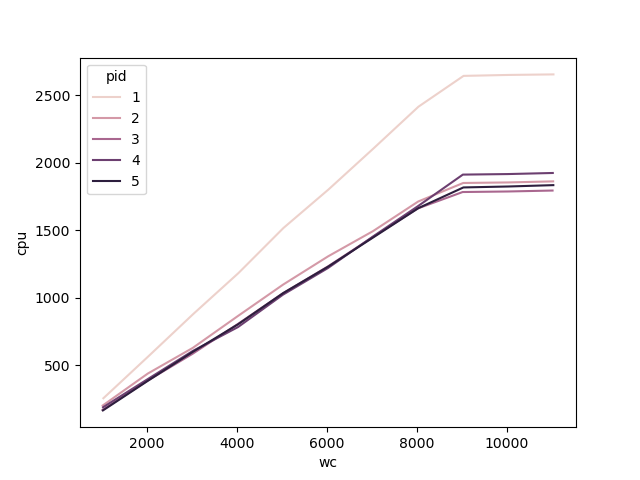
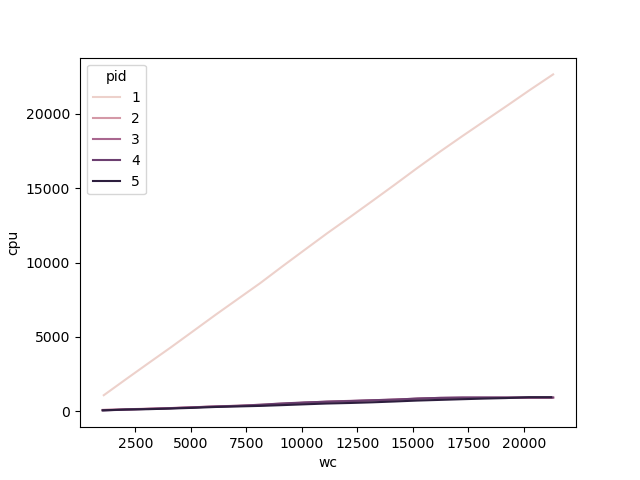
trying without new-send thread

diff --git a/perfect/src/src/stubborn.cpp b/perfect/src/src/stubborn.cpp
@@ -18,6 +18,7 @@
 #include "global.h"
 #include "fairloss.cpp"
 #include "interval_tree.cpp"
+#include "msg_codec.cpp"
 
 struct StubbornMsg {
   unsigned int msg_id;
@@ -40,8 +41,11 @@ struct StubbornMsg {
 
 class Stubborn {
   public:
-    Stubborn(unsigned char id_, std::unordered_map<unsigned char, struct sockaddr_in>* addrs_)
-    : id(id_), addrs(addrs_) {
+    Stubborn(unsigned char id_,
+      std::unordered_map<unsigned char, struct sockaddr_in>* addrs_,
+      std::function<bool()> application_send
+    )
+    : id(id_), addrs(addrs_), app_send(application_send) {
       for (auto& [sender, _]: *addrs) {
         if (sender == id) continue;
         pending_acks.try_emplace(sender); // constructs default IT inplace
@@ -76,71 +80,57 @@ class Stubborn {
 
     void send_messages() {
       if (OO >= 1) std::cout << "running stubborn" << std::endl;
+      bool finished = false;
       while (true) {
+        if (!finished && Q.size() < REFILL) {
+          finished = app_send();
+        } else if (finished && Q.empty()) {
+          break;
+        }
+
         next();
+        
         send_cycles++;
       }
+      if (OO >= 1) std::cout << "nothing left to send in stubborn" << std::endl;
     }
 
-    void next() {
+    void next() { // guaranteed non-empty queue
 
       std::chrono::system_clock::time_point until;
-      {
-        std::unique_lock<std::mutex> lock(Q_mutx);
-        cv_empty.wait(lock, [&]{ return !Q.empty(); });
-        until = (*Q.begin()).next_send;
-      }
+      until = (*Q.begin()).next_send;
 
       // sleep
       std::this_thread::sleep_until(until);
       
       StubbornMsg stbmsg = StubbornMsg(0, nullptr, nullptr);
-      {
-        std::unique_lock<std::mutex> lock(Q_mutx);
-        auto top = Q.begin();
-        stbmsg = *top;
-        Q.erase(top);
-        auto it = acked.find(stbmsg.msg_id);
-        if (it != acked.end()) {
-          // old message, throw out
-          {
-            std::unique_lock<std::mutex> lock(ackedset_mutx);
-            acked.erase(it);
-          }
-          stbmsg.free_msg();
-          cv_ready.notify_one(); // Q size decreased
-          return;
+      auto top = Q.begin();
+      stbmsg = *top;
+      Q.erase(top);
+      auto it = acked.find(stbmsg.msg_id);
+      if (it != acked.end()) {
+        // old message, throw out
+        {
+          std::lock_guard<std::mutex> lock(ackedset_mutx);
+          acked.erase(it);
         }
-        
-        std::chrono::system_clock::time_point now = std::chrono::system_clock::now();
-        // adjust timestamp
-        auto ptr = stbmsg.msg;
-        while (*ptr != 31)
-          ptr++;
-        ptr++;
-        snprintf(ptr, _TIME_S+1, "%.16lx", now.time_since_epoch().count());
-        while (*ptr != 0)
-          ptr++;
-        *ptr = 31;
-
-        stbmsg.next_send = now + std::chrono::milliseconds(1 << stbmsg.back_off);
-        if (stbmsg.back_off < MAX_BACKOFF)
-          stbmsg.back_off++;
-  
-        Q.insert(stbmsg);
+        stbmsg.free_msg();
+        return;
       }
-      if (OO >= 2) std::cout << "st_s " << stbmsg.msg_id << std::endl;
+      
+      std::chrono::system_clock::time_point now = std::chrono::system_clock::now();
+      
+      codec::adjust_timestamp(stbmsg.msg, now);
+
+      stbmsg.next_send = now + std::chrono::milliseconds(1 << stbmsg.back_off);
+      if (stbmsg.back_off < MAX_BACKOFF)
+        stbmsg.back_off++;
+
+      Q.insert(stbmsg);
+      if (OO >= 2)
+        std::cout << "st_s " << stbmsg.msg_id << std::endl;
       fl.send(stbmsg.msg, stbmsg.dest);
       sent++;
-      
-    }
-
-    void await_ready_for_more() {
-      std::unique_lock<std::mutex> lock(Q_mutx);
-      cv_ready.wait(lock, [&](){
-        // std::cout << "checking " << Q.size() << std::endl;
-        return Q.size() < REFILL;
-      });
     }
 
     void bind_address(sockaddr_in* address) {
@@ -348,6 +338,9 @@ class Stubborn {
   private:
     unsigned char id;
     FairLoss fl;
+    std::unordered_map<unsigned char, struct sockaddr_in>* addrs;
+    std::function<bool()> app_send;
+
     std::unordered_set<unsigned long> lookup{};
     std::set<StubbornMsg> Q;
     std::unordered_set<unsigned int> acked; // could be interval tree but idk since single removal
@@ -359,7 +352,6 @@ class Stubborn {
     std::condition_variable cv_ready;
     std::condition_variable cv_empty;
     std::condition_variable cv_acks;
-    std::unordered_map<unsigned char, struct sockaddr_in>* addrs;
     std::unordered_map<unsigned char, IntervalTree> pending_acks;
     std::unordered_map<unsigned char, unsigned long> cutoffs;
 

diff --git a/perfect/src/src/perfect.cpp b/perfect/src/src/perfect.cpp
@@ -12,15 +12,16 @@
 
 class Perfect {
   public:
-    Perfect(unsigned char id_, std::unordered_map<unsigned char, struct sockaddr_in>* addrs_) : st(Stubborn(id_, addrs_)) {}
+    Perfect(unsigned char id_,
+      std::unordered_map<unsigned char, struct sockaddr_in>* addrs_,
+      std::function<bool()> application_send
+    ) : st(Stubborn(id_, addrs_, application_send)) {}
 
     void bind_address(sockaddr_in* address) {
       st.bind_address(address);
     }
 
-    void run(std::function<bool()> send_callback, std::function<void(unsigned char, char*)> receive_callback) {
-      std::thread send(&Perfect::new_messages, this, send_callback);
-      send.detach();
+    void run(std::function<void(unsigned char, char*)> receive_callback) {
       std::thread work1([&]{ st.send_messages(); });
       work1.detach();
       std::thread work2([&]{ st.send_acks(); });
@@ -40,15 +41,6 @@ class Perfect {
       st.stats();
       last_sent = sent;
       last_recv = recv;
-    }
-
-    void new_messages(std::function<bool()> callback) {
-      bool done = callback();
-      while (!done) {
-        st.await_ready_for_more();
-        done = callback();
-      }
-      if (OO >= 1) std::cout << "done sending" << std::endl;
     }
 
     void send(unsigned int msg_id, char* msg, struct sockaddr_in* dest) {

diff --git a/perfect/src/src/process.cpp b/perfect/src/src/process.cpp
@@ -22,7 +22,8 @@ class Process
 public:
   Process(unsigned long id_, unsigned long dest_id, unsigned long m_, const char *outputPath,
           std::unordered_map<unsigned char, struct sockaddr_in> *addrs_)
-      : addrs(addrs_), id(static_cast<unsigned char>(id_)), network(Perfect(id, addrs))
+      : addrs(addrs_), id(static_cast<unsigned char>(id_)),
+      network(Perfect(id, addrs, std::bind(&Process::send_batch, this)))
   {
 
     if (OO >= 1)
@@ -42,10 +43,9 @@ public:
 
   void main()
   {
-    auto send = std::bind(&Process::send_batch, this);
     auto receive = std::bind(&Process::log_receive, this,
                              std::placeholders::_1, std::placeholders::_2);
-    network.run(send, receive);
+    network.run(receive);
 
     if (STATS)
     {
@@ -115,7 +115,7 @@ public:
     if (seq_nr > m)
       return true;
     if (OO >= 2)
-      std::cout << "keeping sending from" << seq_nr << std::endl;
+      std::cout << "keeping sending from " << seq_nr << std::endl;
     // only send (MAX_PENDING >> 1) new messages
     for (unsigned int i = 0; i < SEND_BURST; i++)
     {
@@ -141,7 +141,7 @@ public:
       check_buffer();
 
       if (seq_nr > m)
-        break;
+        return true;
     }
     if (OO >= 2)
       std::cout << "sent until" << seq_nr - 1 << std::endl;

diff --git a/perfect/src/src/msg_codec.cpp b/perfect/src/src/msg_codec.cpp
@@ -53,4 +53,13 @@ namespace codec
         return buffer;
     }
 
+    void adjust_timestamp(char* ptr, std::chrono::system_clock::time_point now);
+    void adjust_timestamp(char* ptr, std::chrono::system_clock::time_point now) {
+        while (*ptr != 31)
+            ptr++;
+        ptr++;
+        int written = snprintf(ptr, _TIME_S+1, "%.16lx", now.time_since_epoch().count());
+        ptr += written;
+        *ptr = 31;
+    }
 }
